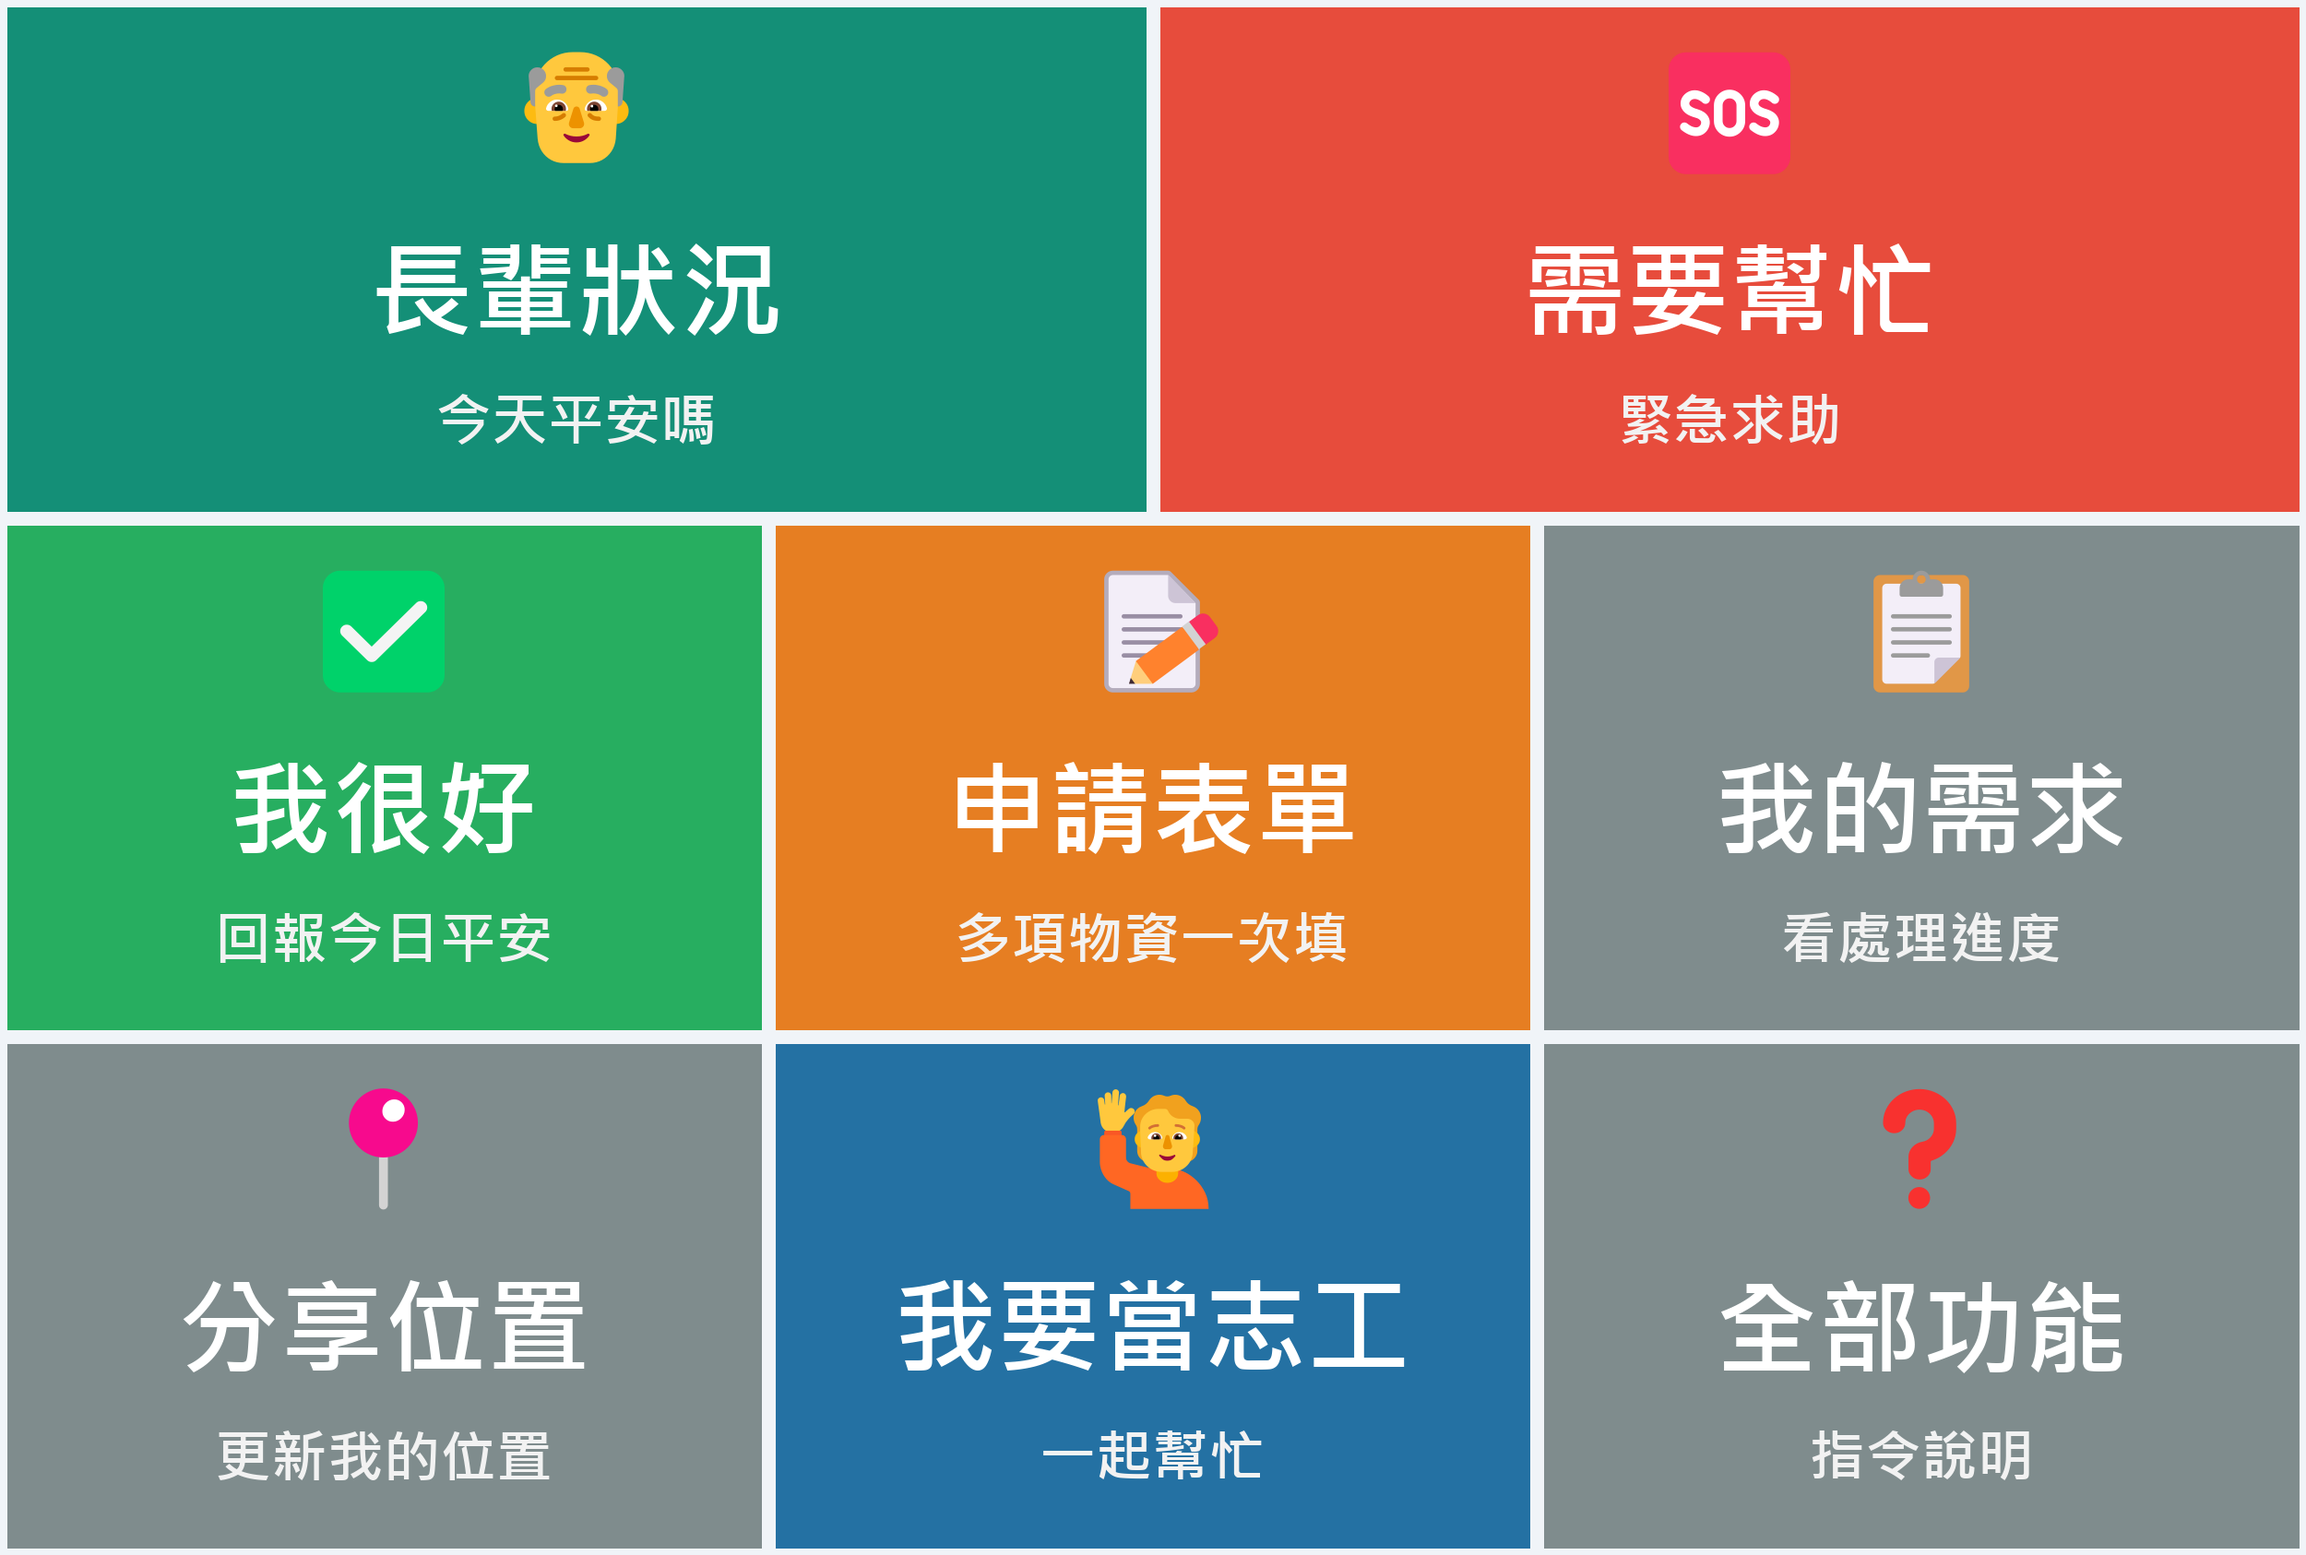
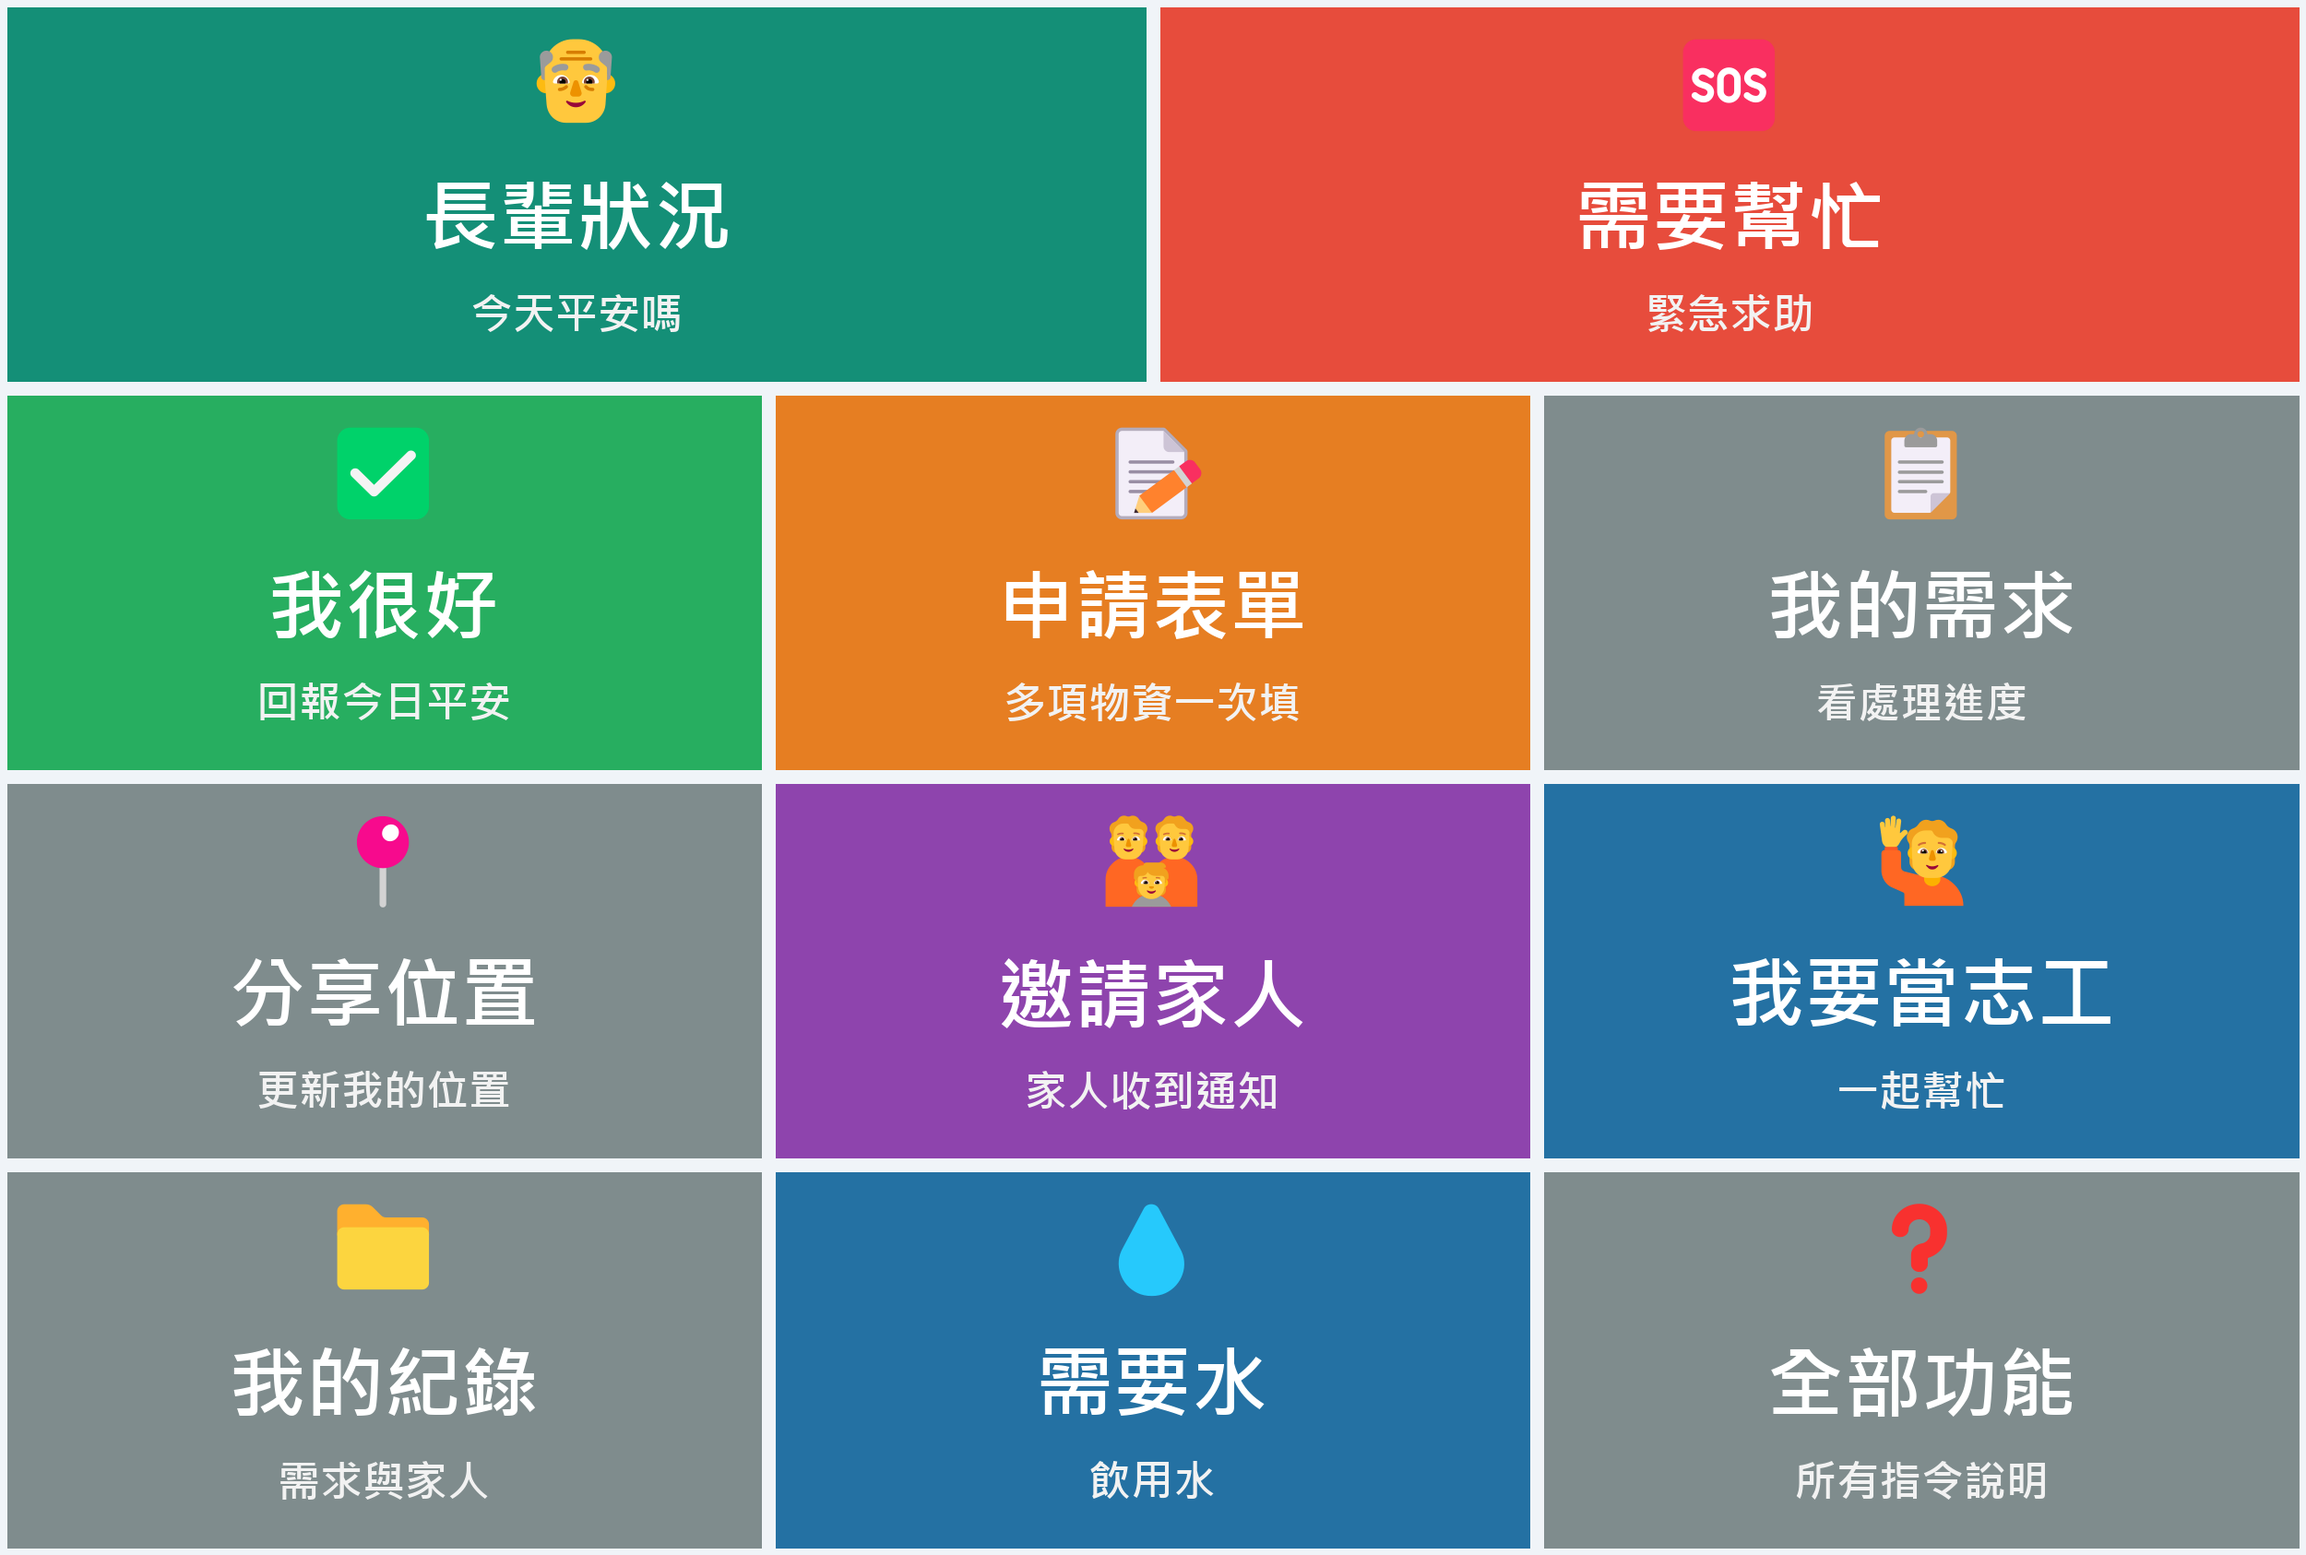
Show every feature in the four rich menus
Resident, volunteer, family and admin menus now list all the commands each role can
use (11 to 14 cells instead of 8), last row fills the canvas, and the family icon
renders as a single emoji.

diff --git a/app/services/rich_menu.py b/app/services/rich_menu.py
@@ -27,6 +27,9 @@ IMAGE_DIR = os.path.join(os.path.dirname(os.path.dirname(__file__)), "static", "
 GREEN, RED, BLUE, ORANGE, GREY, TEAL = "#27ae60", "#e74c3c", "#2471a3", "#e67e22", "#7f8c8d", "#148f77"
 
 # 每格：(標籤, 副標, 底色, 圖示, 送出的文字)。一列一個 list，格子平分該列寬度。
+PURPLE = "#8e44ad"
+
+# 每張選單都放齊該角色能用的所有功能：最重要的（平安、求救）在最上面、佔最大的格子。
 RESIDENT_ROWS = [
     [("我很好", "回報今日平安", GREEN, "✅", "我很好"),
      ("需要幫忙", "緊急求助", RED, "🆘", "需要幫忙")],
@@ -36,6 +39,9 @@ RESIDENT_ROWS = [
     [("申請表單", "多項物資一次填", RED, "📝", "申請物資"),
      ("我的需求", "看處理進度", GREY, "📋", "我的需求"),
      ("分享位置", "讓志工找到您", GREY, "📍", "分享位置")],
+    [("邀請家人", "家人收到通知", PURPLE, "👪", "邀請家人"),
+     ("我要當志工", "一起幫忙", BLUE, "🙋", "我要當志工"),
+     ("全部功能", "所有指令說明", GREY, "❓", "幫助")],
 ]
 STAFF_ROWS = [
     [("我很好", "回報今日平安", GREEN, "✅", "我很好"),
@@ -43,9 +49,12 @@ STAFF_ROWS = [
     [("接單", "看附近的需求", ORANGE, "🙋", "接單"),
      ("我的任務", "進行中的任務", BLUE, "🚚", "我的任務"),
      ("登記表單", "我能提供什麼", TEAL, "📦", "登記物資")],
-    [("我的物資", "已登記項目", GREY, "🧾", "我的物資"),
-     ("分享位置", "更新我的位置", GREY, "📍", "分享位置"),
-     ("全部功能", "指令說明", GREY, "❓", "幫助")],
+    [("我的物資", "已登記項目", TEAL, "🧾", "我的物資"),
+     ("取消物資", "撤回未派出的", GREY, "↩", "取消物資"),
+     ("分享位置", "更新我的位置", GREY, "📍", "分享位置")],
+    [("我的需求", "看處理進度", GREY, "📋", "我的需求"),
+     ("邀請家人", "家人收到通知", PURPLE, "👪", "邀請家人"),
+     ("全部功能", "所有指令說明", GREY, "❓", "幫助")],
 ]
 FAMILY_ROWS = [
     [("長輩狀況", "今天平安嗎", TEAL, "👴", "長輩狀況"),
@@ -54,8 +63,11 @@ FAMILY_ROWS = [
      ("申請表單", "多項物資一次填", ORANGE, "📝", "申請物資"),
      ("我的需求", "看處理進度", GREY, "📋", "我的需求")],
     [("分享位置", "更新我的位置", GREY, "📍", "分享位置"),
-     ("我要當志工", "一起幫忙", BLUE, "🙋", "我要當志工"),
-     ("全部功能", "指令說明", GREY, "❓", "幫助")],
+     ("邀請家人", "家人收到通知", PURPLE, "👪", "邀請家人"),
+     ("我要當志工", "一起幫忙", BLUE, "🙋", "我要當志工")],
+    [("我的紀錄", "需求與家人", GREY, "📁", "我的紀錄"),
+     ("需要水", "飲用水", BLUE, "💧", "需要水"),
+     ("全部功能", "所有指令說明", GREY, "❓", "幫助")],
 ]
 ADMIN_ROWS = [
     [("總覽", "目前整體狀況", BLUE, "📊", "總覽"),
@@ -63,9 +75,15 @@ ADMIN_ROWS = [
     [("待派需求", "一鍵派給志工", ORANGE, "📦", "待派"),
      ("待審志工", "核准或婉拒", TEAL, "🙋", "待審"),
      ("開啟後台", "登入管理後台", GREY, "🔐", "後台")],
-    [("我很好", "回報今日平安", GREEN, "✅", "我很好"),
+    [("接單", "看附近的需求", ORANGE, "🚚", "接單"),
+     ("我的任務", "進行中的任務", BLUE, "📌", "我的任務"),
+     ("登記表單", "我能提供什麼", TEAL, "📦", "登記物資")],
+    [("我的物資", "已登記項目", TEAL, "🧾", "我的物資"),
      ("分享位置", "更新我的位置", GREY, "📍", "分享位置"),
-     ("全部功能", "指令說明", GREY, "❓", "幫助")],
+     ("更新選單", "重建 LINE 選單", PURPLE, "🔄", "更新選單")],
+    [("我很好", "回報今日平安", GREEN, "✅", "我很好"),
+     ("我的需求", "看處理進度", GREY, "📋", "我的需求"),
+     ("全部功能", "所有指令說明", GREY, "❓", "幫助")],
 ]
 MENUS = {
     RESIDENT_NAME: {"rows": RESIDENT_ROWS, "image": "resident.png", "chat_bar": "📋 需要什麼？點我"},
@@ -80,10 +98,11 @@ def layout(rows):
     out = []
     row_h = H // len(rows)
     for r, cells in enumerate(rows):
+        h = row_h if r < len(rows) - 1 else H - row_h * r
         col_w = W // len(cells)
         for c, cell in enumerate(cells):
             w = col_w if c < len(cells) - 1 else W - col_w * c
-            out.append((c * col_w, r * row_h, w, row_h, cell))
+            out.append((c * col_w, r * row_h, w, h, cell))
     return out
 
 

diff --git a/tests/test_line_hardening.py b/tests/test_line_hardening.py
@@ -633,7 +633,7 @@ def test_rich_menu_layout_covers_canvas_and_uses_known_commands():
     assert set(rm.MENUS) == {rm.RESIDENT_NAME, rm.STAFF_NAME, rm.FAMILY_NAME, rm.ADMIN_NAME}
     for name, spec in rm.MENUS.items():
         cells = rm.layout(spec["rows"])
-        assert len(cells) == 8
+        assert 11 <= len(cells) <= 20, "LINE 選單最多 20 格"
         assert sum(w * h for _, _, w, h, _ in cells) == rm.W * rm.H
         for *_, cell in cells:
             text = cell[4]
